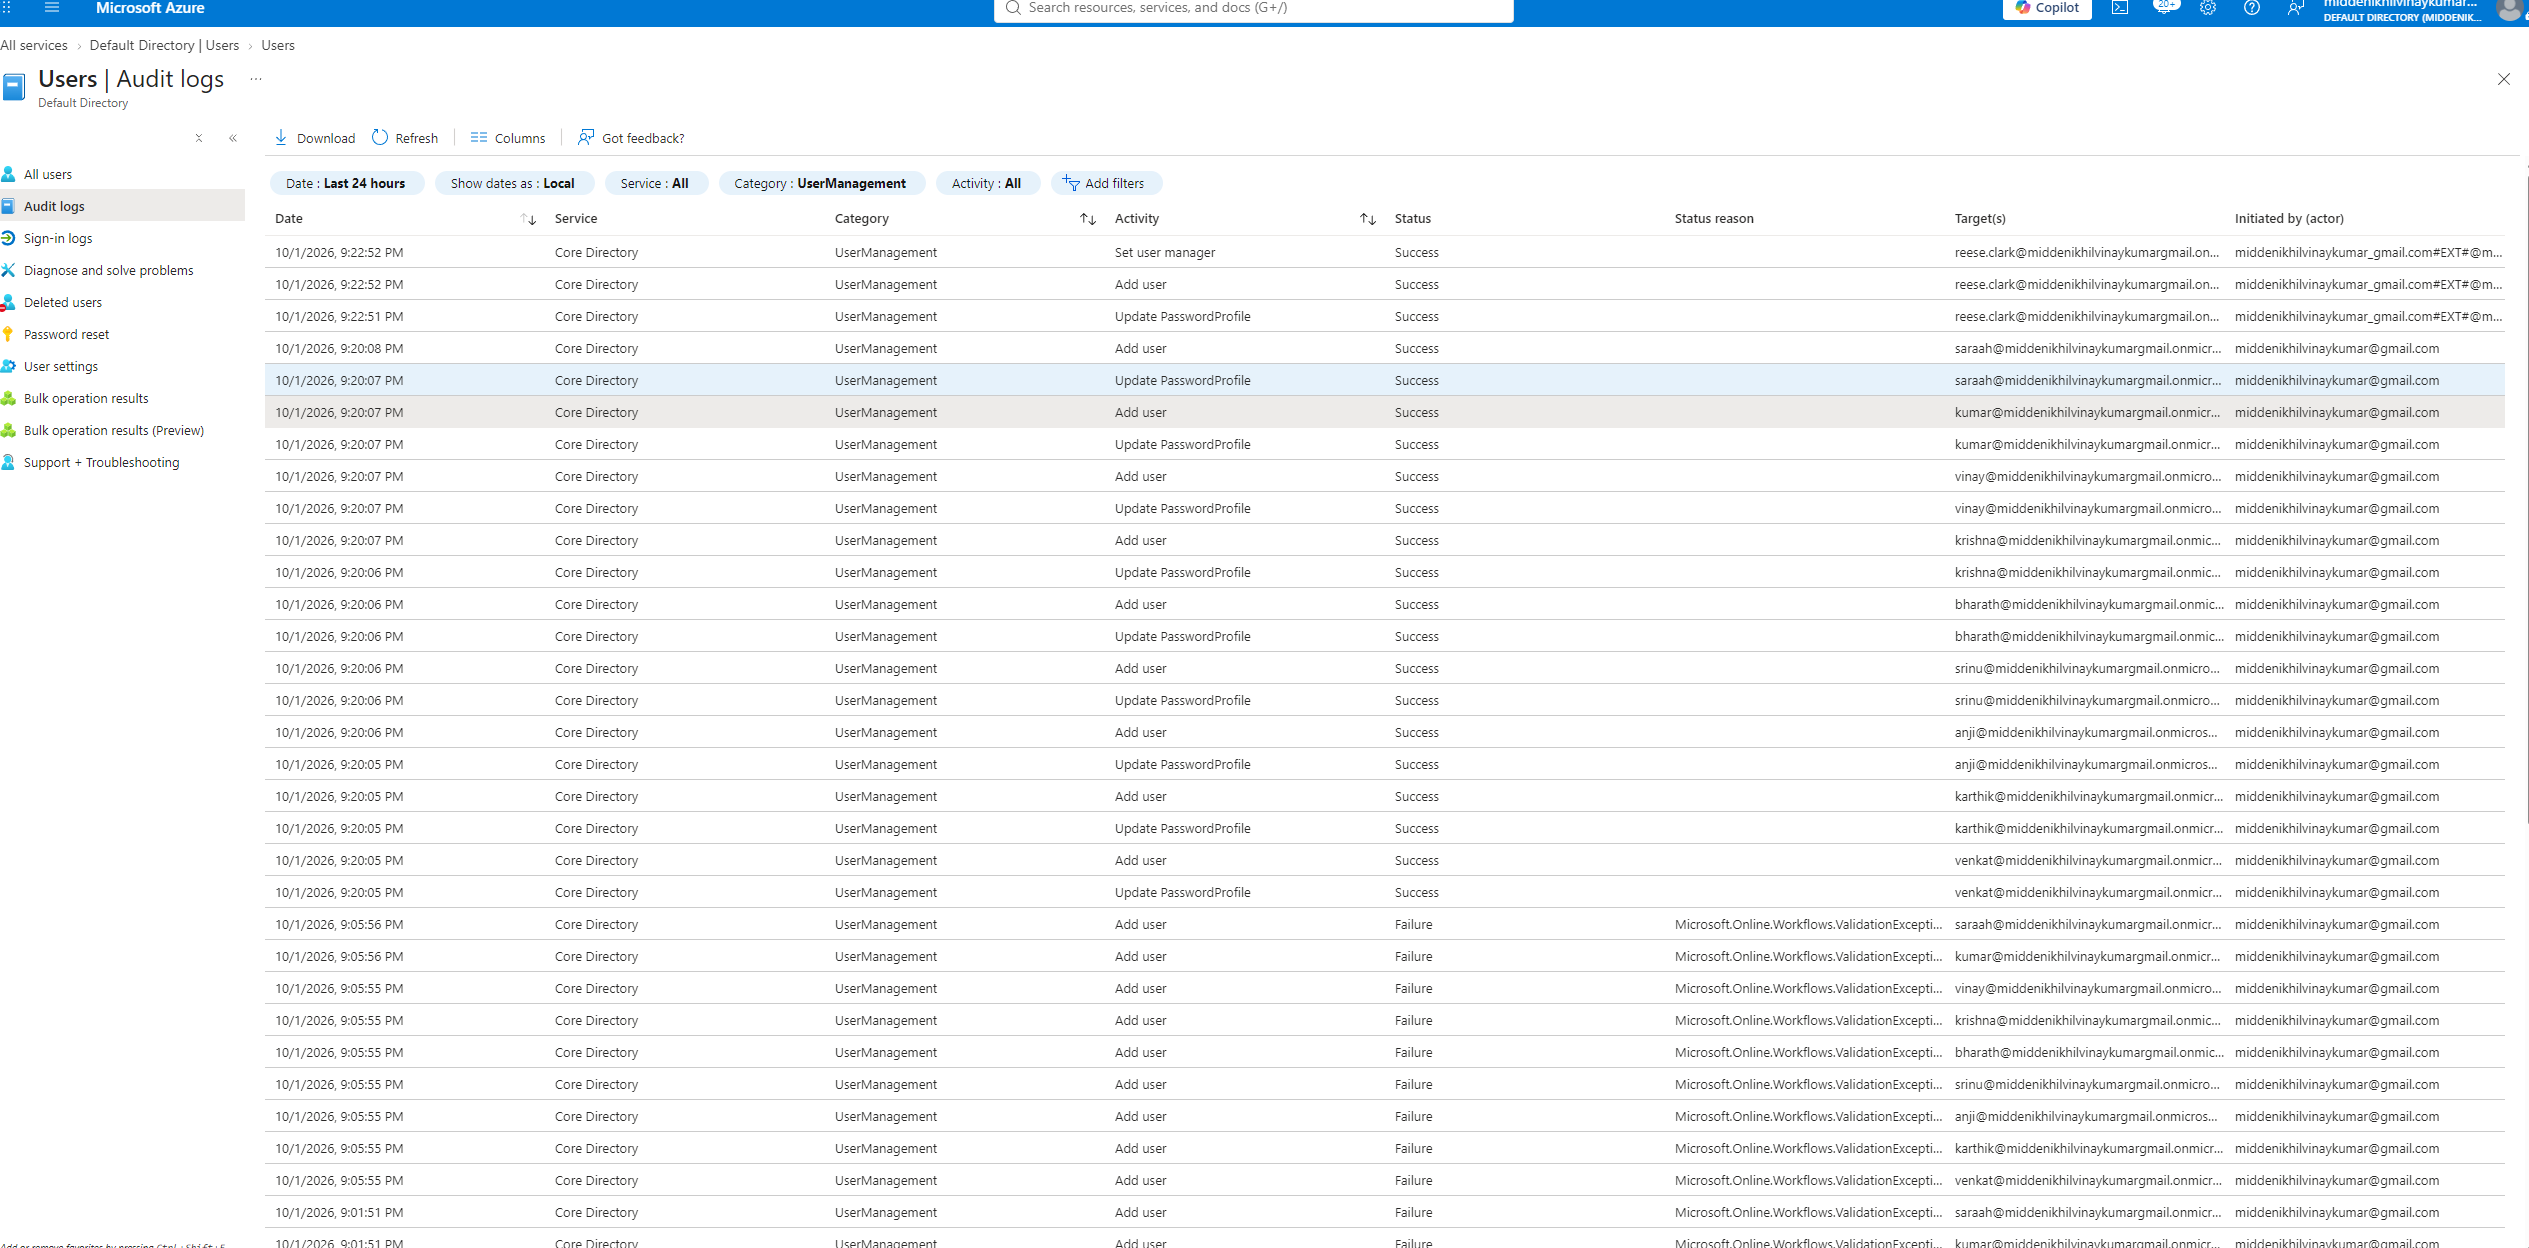
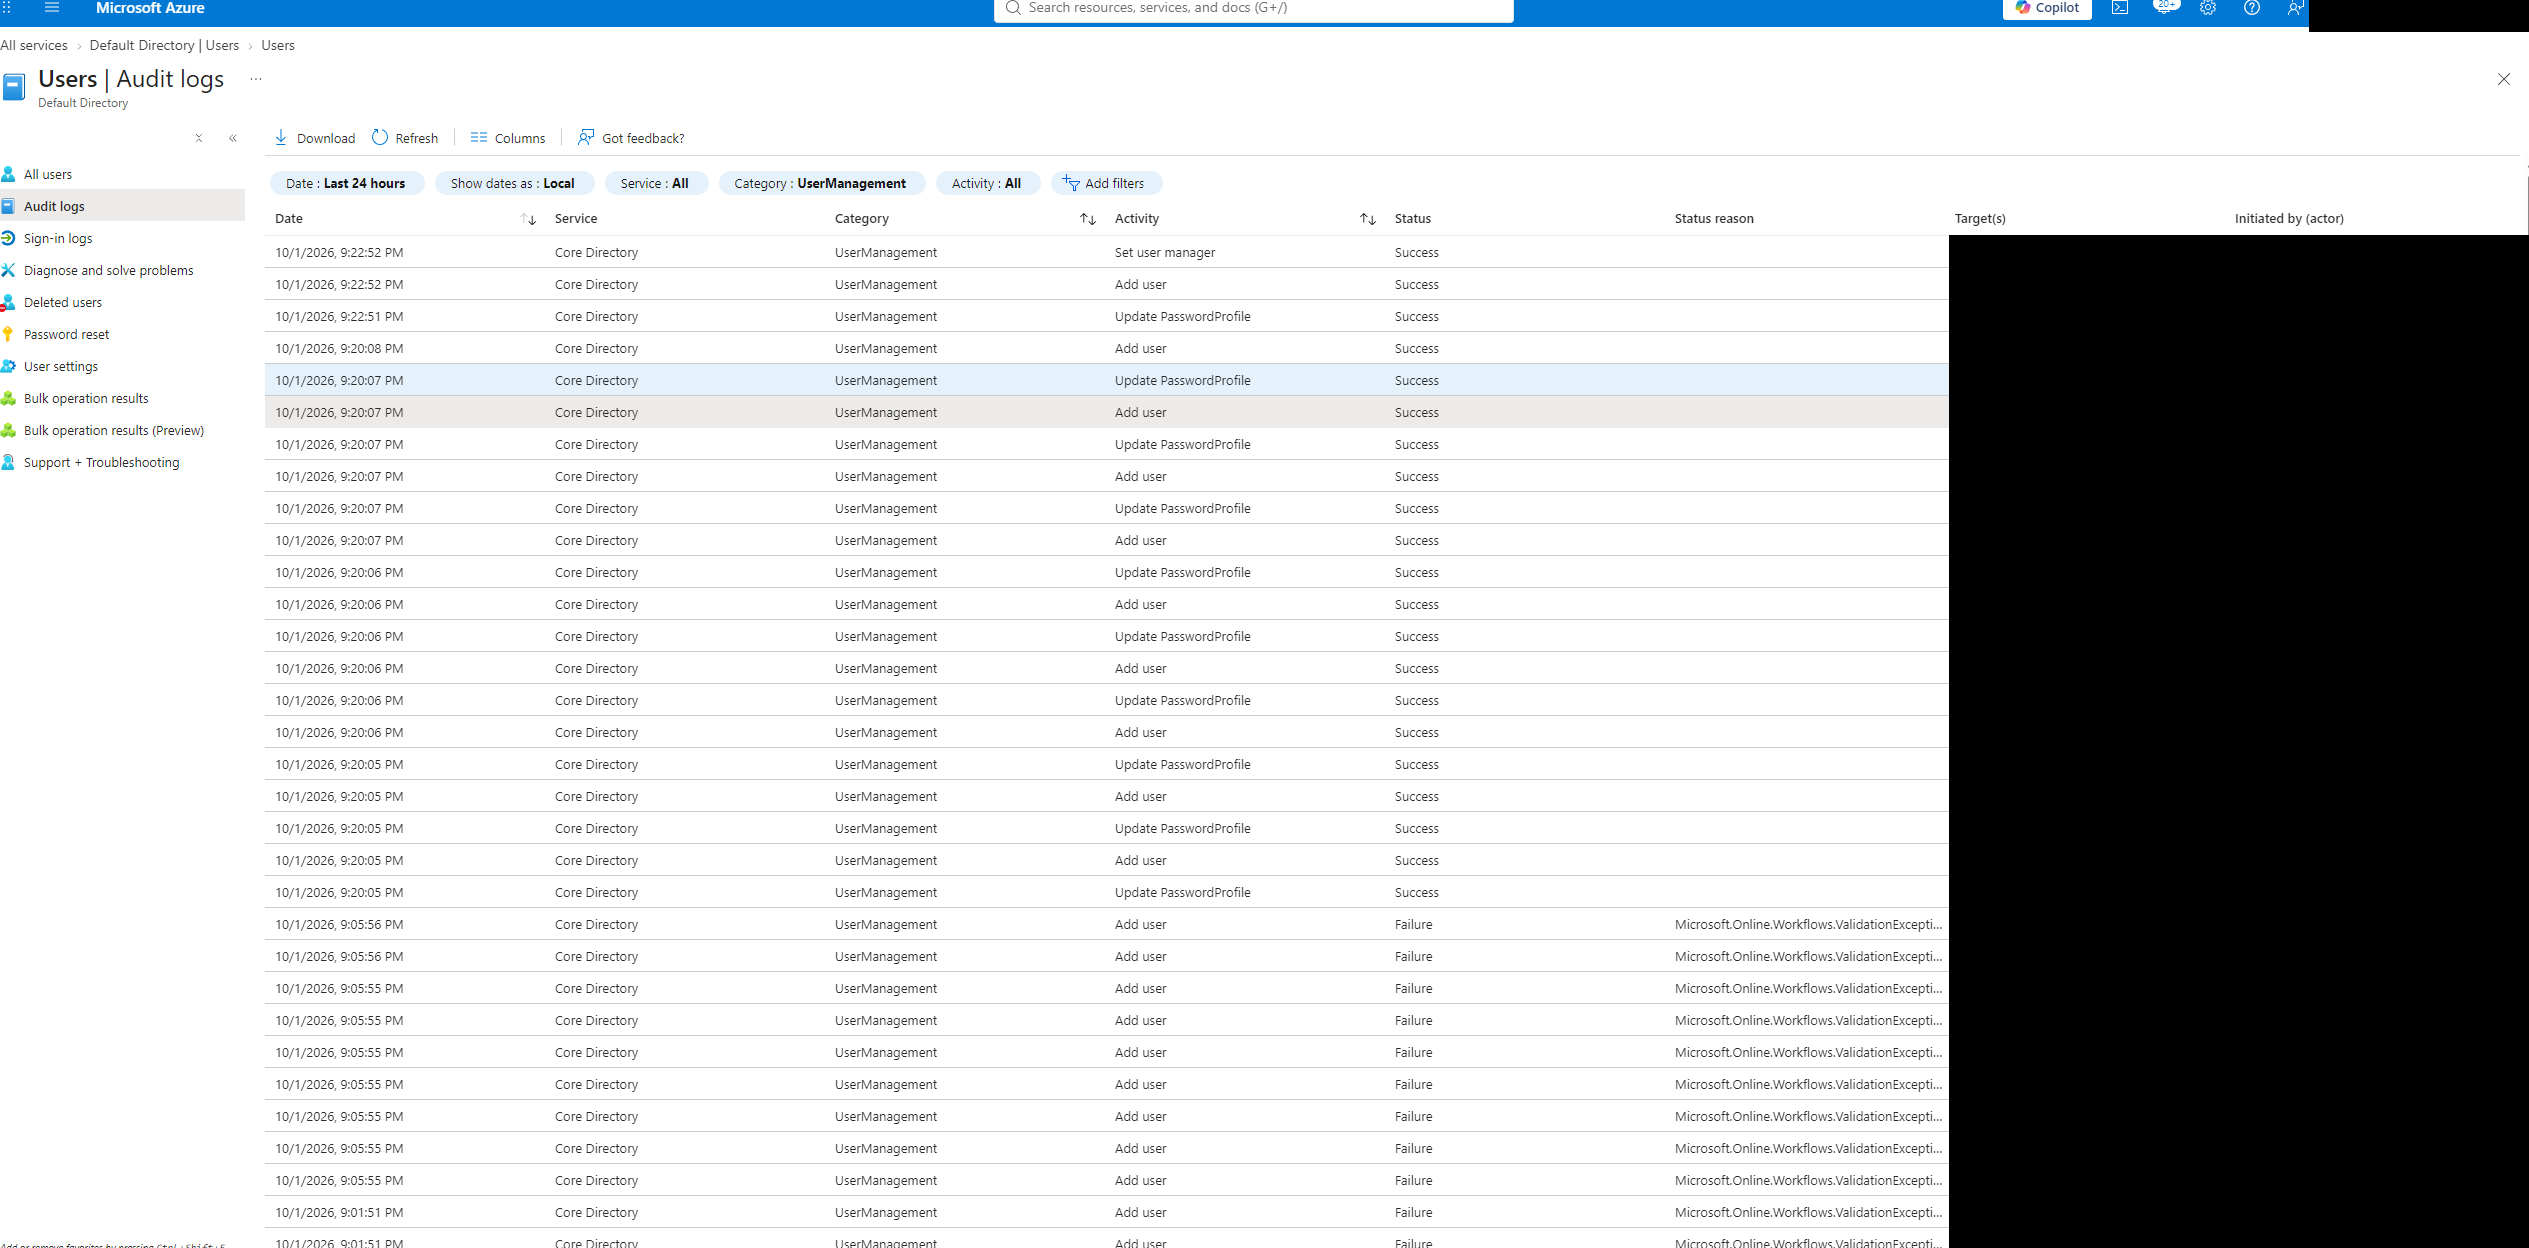
Redact contact details in portfolio screenshots

Changed region(s): [[0.7497, 0.1875, 1.0, 1.0], [0.9059, 0.0, 1.0, 0.0312]]

diff --git a/README.md b/README.md
@@ -95,3 +95,7 @@ assignments would require separate configuration.
 ![VDR security groups](screenshots/groups-list.png)
 
 ![IT group membership after onboarding Avery](screenshots/it-members.png)
+
+## Screenshot Privacy
+
+Black boxes redact email addresses, user principal names, and the signed-in identity. All pixels outside those boxes are unchanged from the original screenshots. This update replaces the current images; earlier versions remain in Git history.
